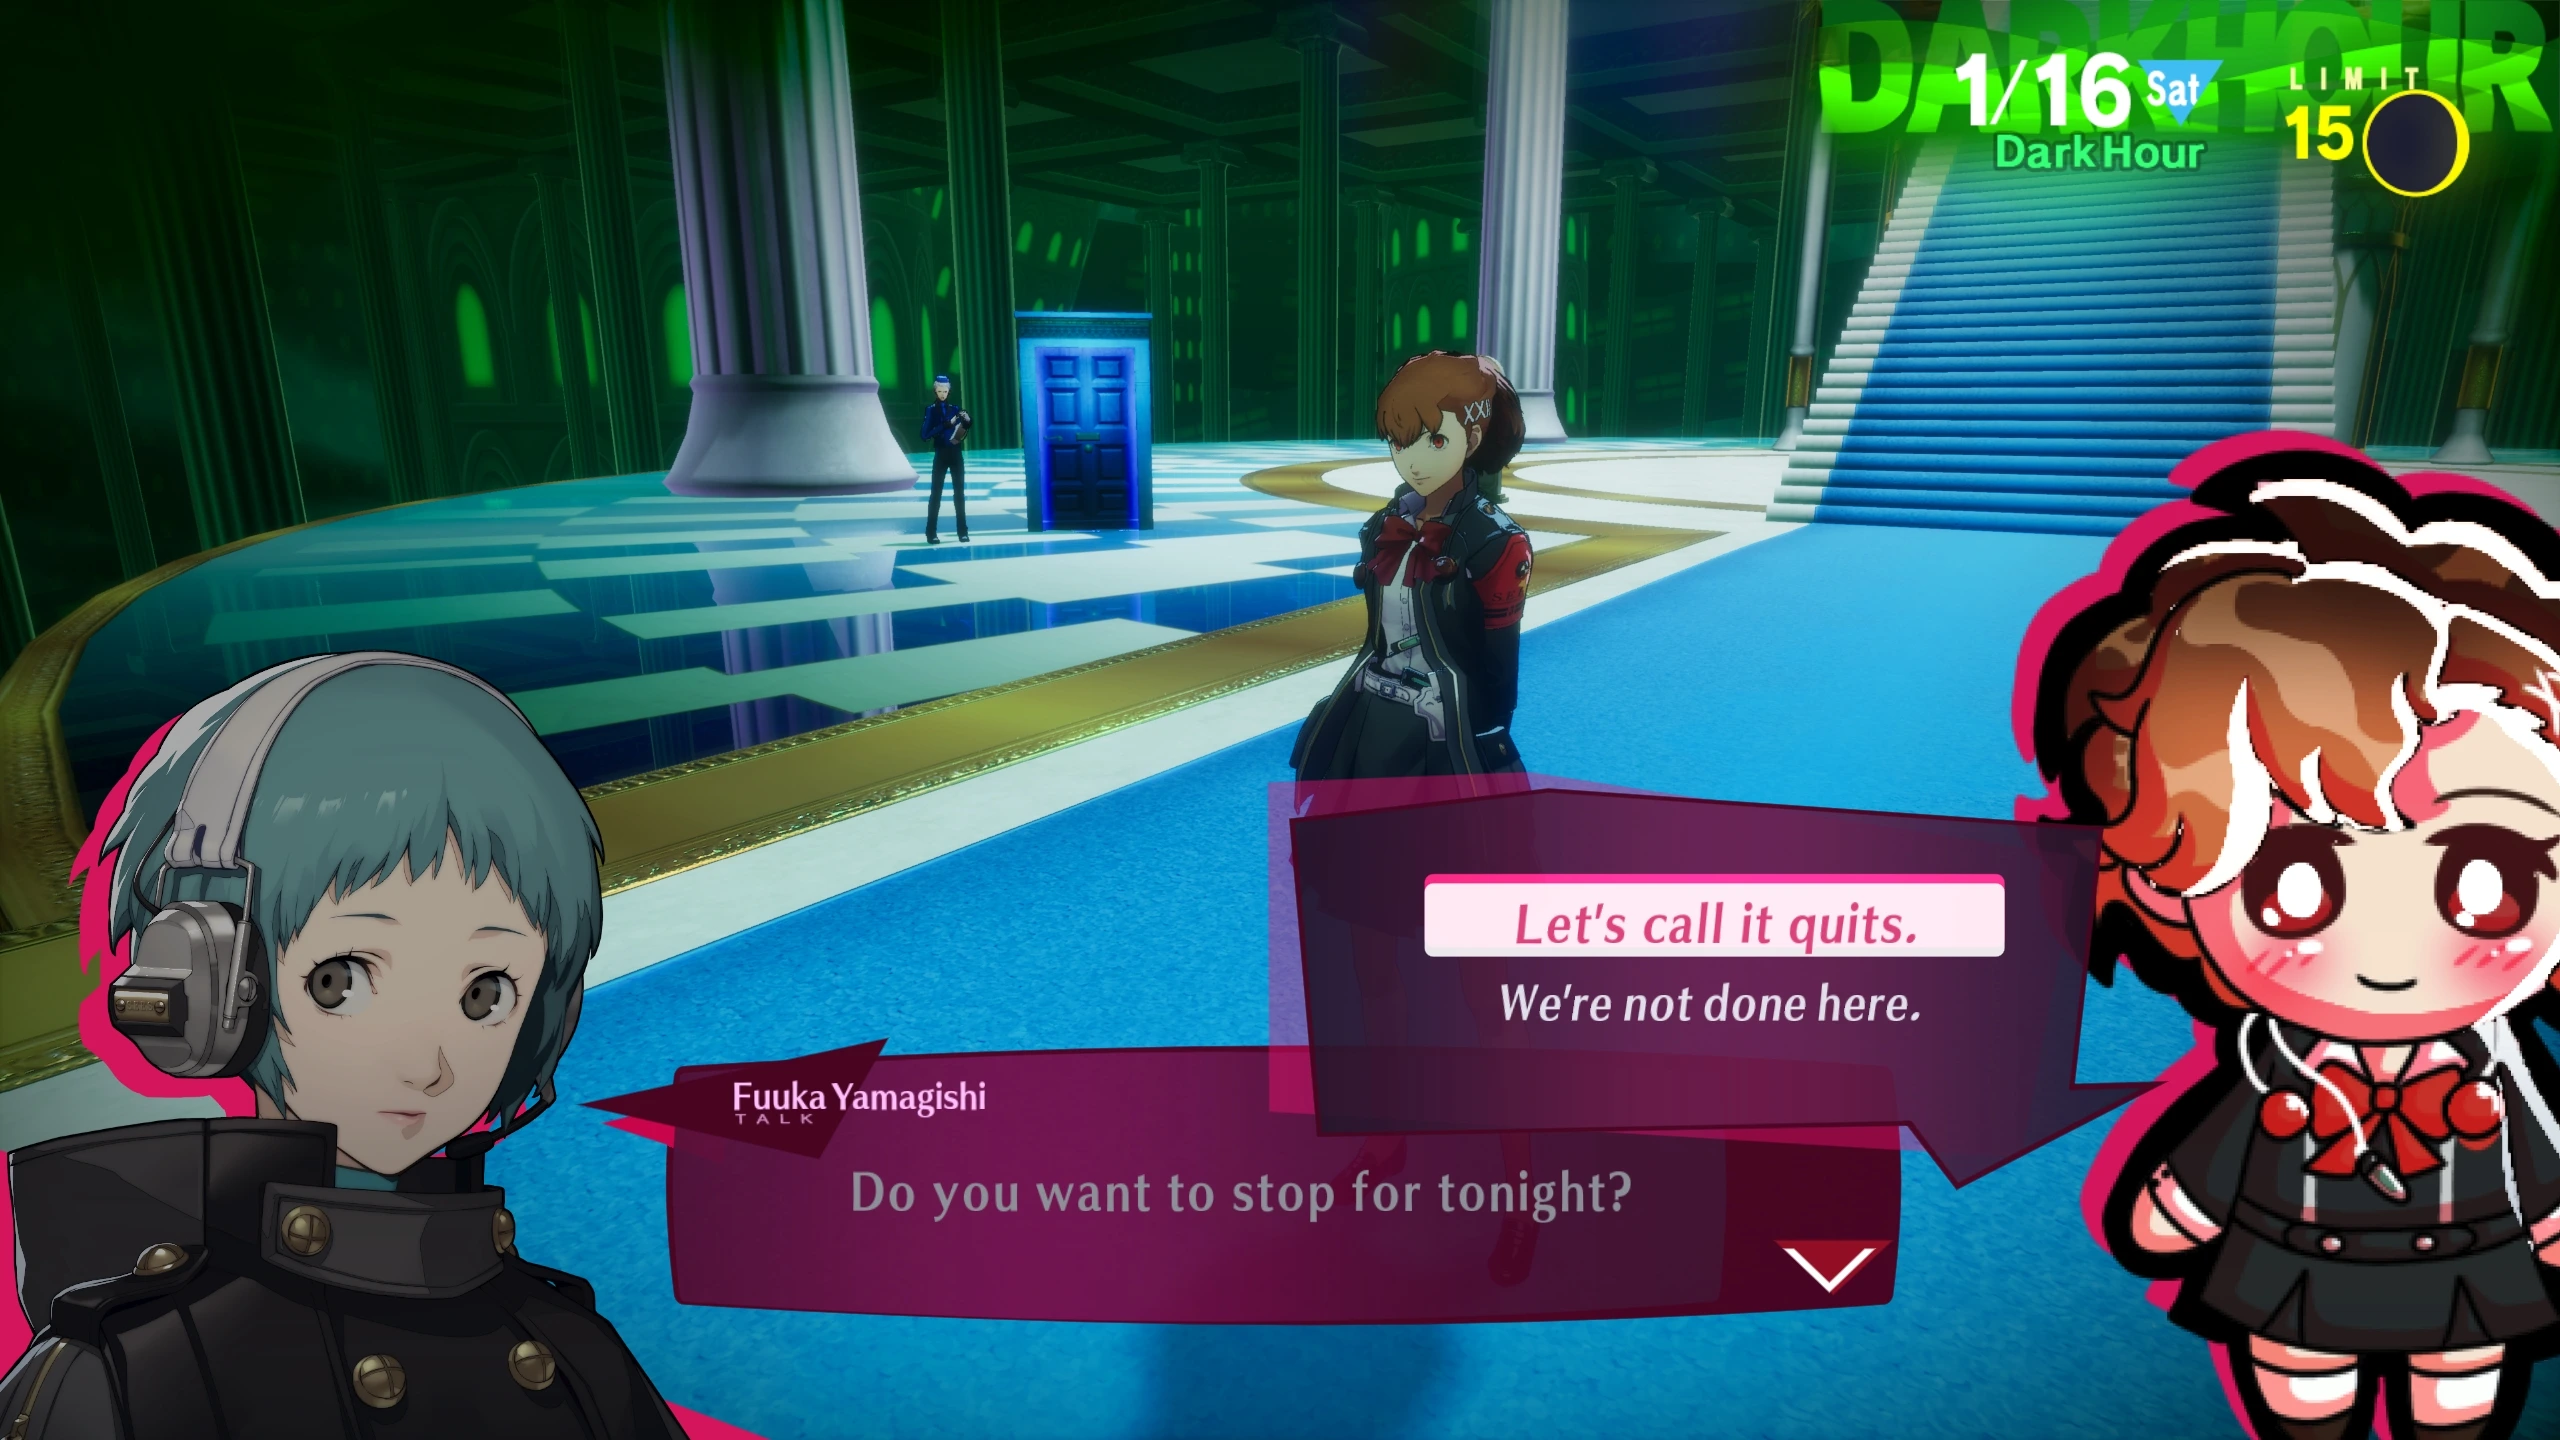
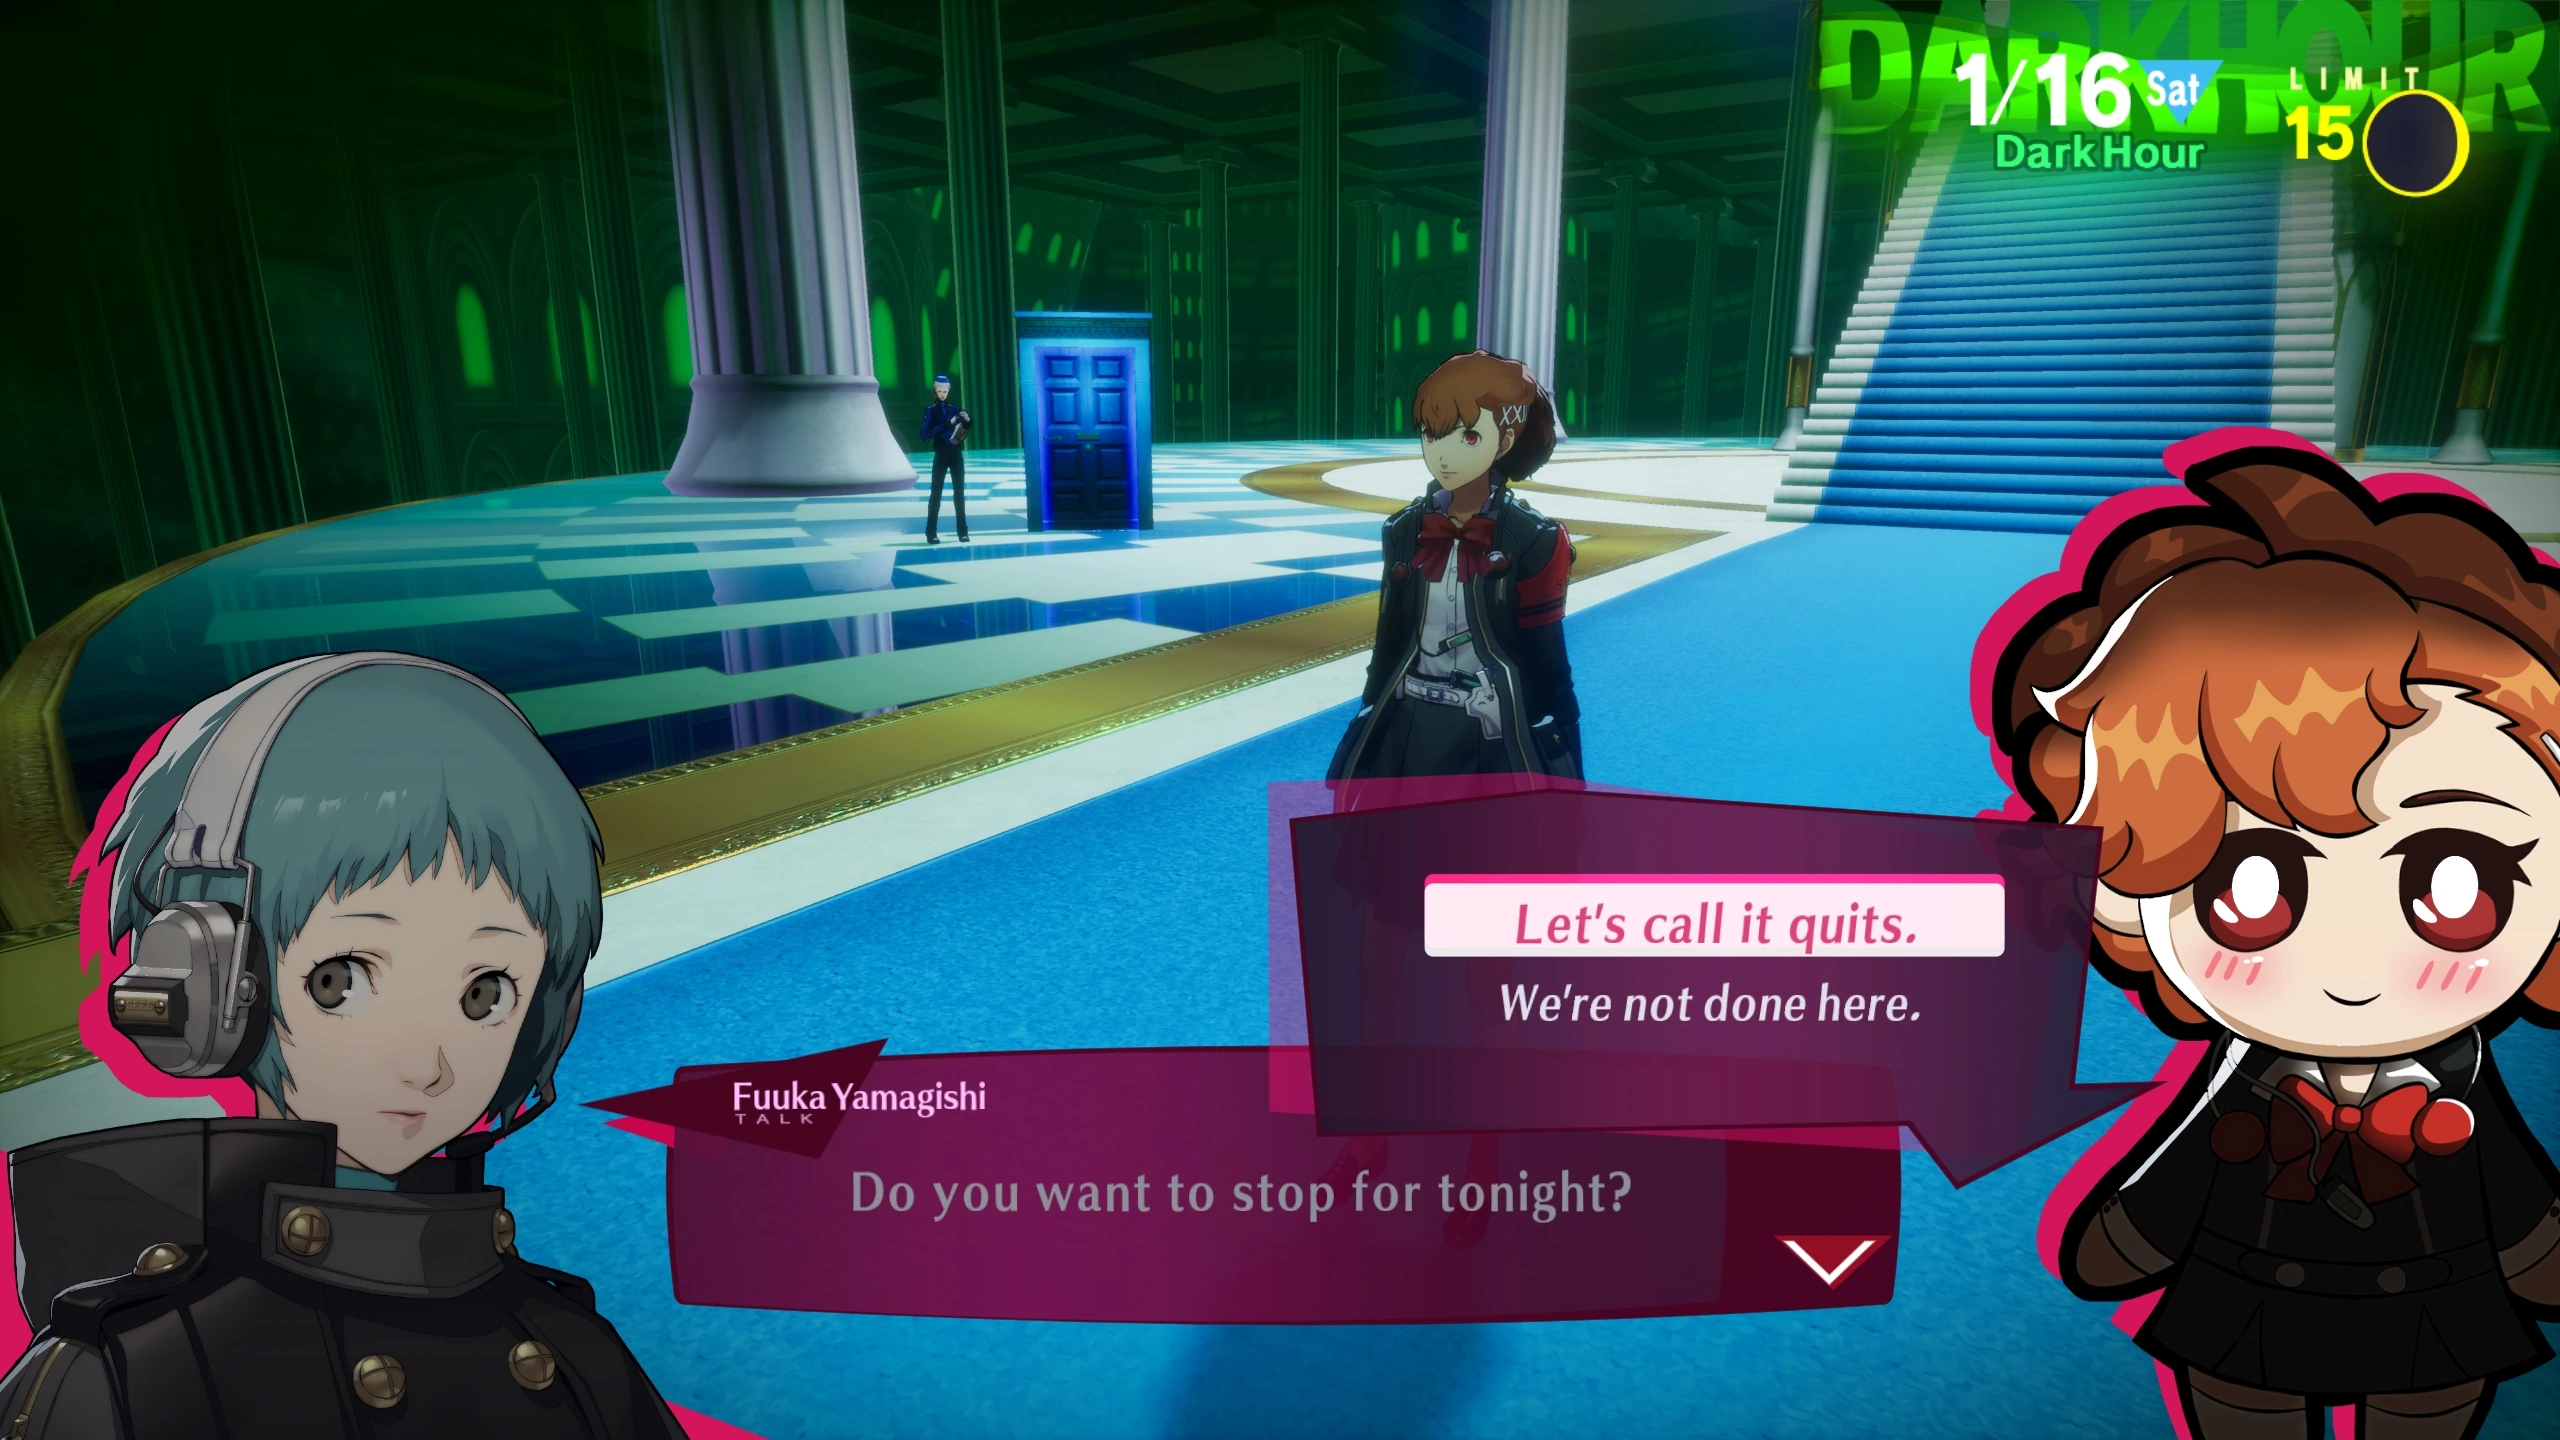
new alt bustup by purpleoctogamer

diff --git a/FemcConfig.Library/Config/Sections/2D/BustupSection.cs b/FemcConfig.Library/Config/Sections/2D/BustupSection.cs
@@ -255,6 +255,14 @@ public class BustupSection : ISection
                 Enable = (ctx) => ctx.FemcConfig.Settings.BustupTrue = Models.FemcModConfig.BustupType.purpleoctogamer,
                 IsEnabledFunc = (ctx) => ctx.FemcConfig.Settings.BustupTrue == Models.FemcModConfig.BustupType.purpleoctogamer,
             },
+            new ModOption(ctx)
+            {
+                InternalName = "bustup_purpleoctogamerAlt",
+                Name = "purpleoctogamer (Alt)",
+                Authors = [Author.purpleoctogamer],
+                Enable = (ctx) => ctx.FemcConfig.Settings.BustupTrue = Models.FemcModConfig.BustupType.purpleoctogamerAlt,
+                IsEnabledFunc = (ctx) => ctx.FemcConfig.Settings.BustupTrue == Models.FemcModConfig.BustupType.purpleoctogamerAlt,
+            },
         ];
     }
 }

diff --git a/FemcConfig.Library/Config/Models/FemcModConfig.cs b/FemcConfig.Library/Config/Models/FemcModConfig.cs
@@ -1136,7 +1136,8 @@ public partial class FemcModConfig : ObservableObject
         Autumn,
         p3pYuha,
         Maru,
-        purpleoctogamer
+        purpleoctogamer,
+        purpleoctogamerAlt
     }
 
     [Description("The Glass Shard in that one menu when pausing.")]
